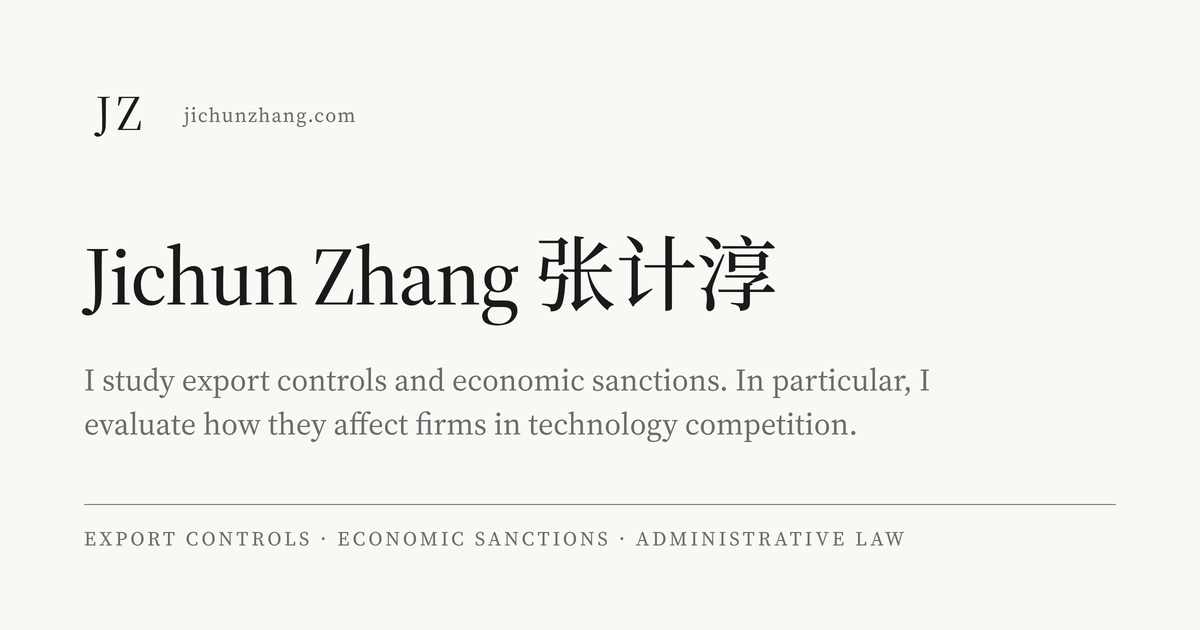
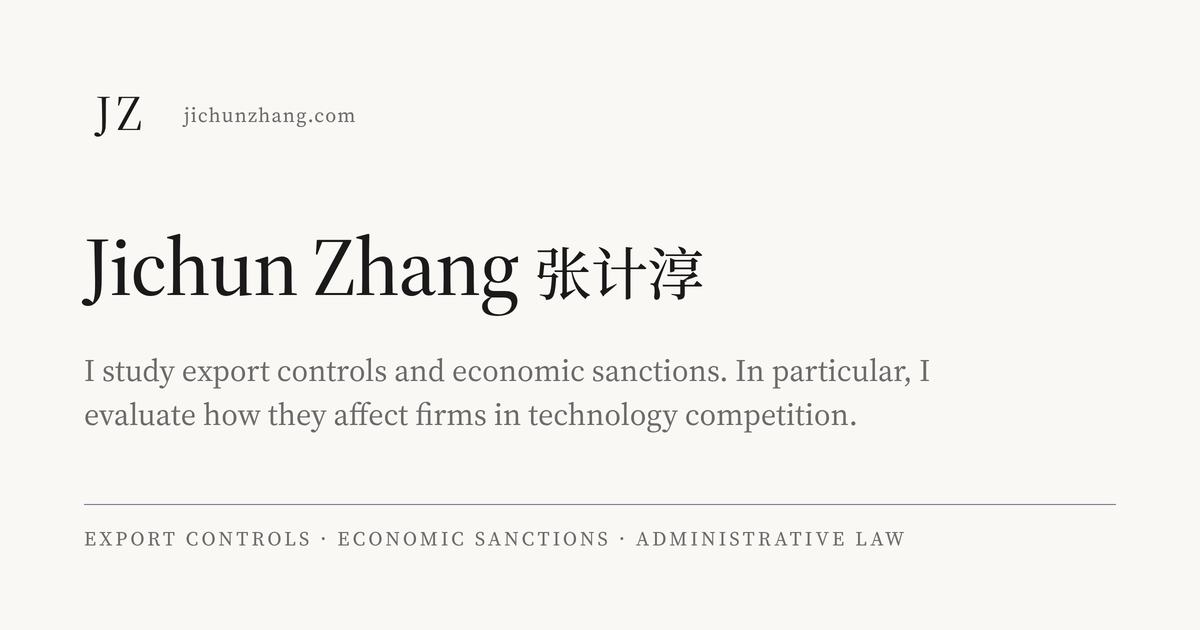
site: content update 2026-09-17 17:51

Changed region(s): [[0.0617, 0.573, 0.7708, 0.6937], [0.0617, 0.3619, 0.6475, 0.5127]]

diff --git a/404.html b/404.html
@@ -38,11 +38,13 @@ header{border-bottom:1px solid var(--rule);padding-bottom:19px;margin-bottom:30p
 .hdrtext{min-width:0}
 h1{font-size:1.6rem;font-weight:500;margin:0 0 4px;letter-spacing:-.01em}
 [lang="zh-Hans"],[lang^="zh"]{font-family:"Noto Serif SC",Georgia,"Songti SC","SimSun",serif}
+h1 [lang^="zh"], h2 [lang^="zh"], .name [lang^="zh"]{font-size:.70em}
 .role{font-family:var(--mono);font-size:.72rem;text-transform:uppercase;letter-spacing:.08em;color:var(--soft)}
 .contact{margin-top:6px;font-family:var(--mono);font-size:.76rem;color:var(--soft);letter-spacing:.02em}
 nav{margin-top:12px;font-family:var(--mono);font-size:.8rem;letter-spacing:.04em;margin-left:-9px;display:flex;gap:4px;flex-wrap:wrap}
 nav a,nav span.here{display:inline-block;padding:7px 9px}
 nav a{color:var(--accent);border-bottom:0}
+nav a:hover{color:var(--text)}
 nav span.here{color:var(--text);position:relative}
 nav span.here::after{content:"";position:absolute;left:9px;right:9px;bottom:6px;border-bottom:1px solid var(--text)}
 .portrait{width:var(--psize,168px);height:var(--psize,168px);object-fit:cover;border-radius:3px;flex:0 0 auto}
@@ -82,9 +84,7 @@ code{font-family:var(--mono);font-size:.9em}
 html{font-size:calc(18.7px + var(--fluid) * 0.0309)}
 section > p, section > ul, section > .tags, .biotext{max-width:calc(604px + var(--fluid))}
 .portrait{width:calc(var(--psize,168px) + var(--fluid) * 0.199);height:calc(var(--psize,168px) + var(--fluid) * 0.199)}
-.wrap{max-width:calc(var(--frame,calc(var(--max) + 320px)) + var(--fluid) * 1.199);min-height:100vh;display:flex;flex-direction:column}
-body{min-height:100vh}
-footer{margin-top:auto}
+.wrap{max-width:calc(var(--frame,calc(var(--max) + 320px)) + var(--fluid) * 1.199)}
 </style>
 </head>
 <body>

diff --git a/cv.html b/cv.html
@@ -38,11 +38,13 @@ header{border-bottom:1px solid var(--rule);padding-bottom:19px;margin-bottom:30p
 .hdrtext{min-width:0}
 h1{font-size:1.6rem;font-weight:500;margin:0 0 4px;letter-spacing:-.01em}
 [lang="zh-Hans"],[lang^="zh"]{font-family:"Noto Serif SC",Georgia,"Songti SC","SimSun",serif}
+h1 [lang^="zh"], h2 [lang^="zh"], .name [lang^="zh"]{font-size:.70em}
 .role{font-family:var(--mono);font-size:.72rem;text-transform:uppercase;letter-spacing:.08em;color:var(--soft)}
 .contact{margin-top:6px;font-family:var(--mono);font-size:.76rem;color:var(--soft);letter-spacing:.02em}
 nav{margin-top:12px;font-family:var(--mono);font-size:.8rem;letter-spacing:.04em;margin-left:-9px;display:flex;gap:4px;flex-wrap:wrap}
 nav a,nav span.here{display:inline-block;padding:7px 9px}
 nav a{color:var(--accent);border-bottom:0}
+nav a:hover{color:var(--text)}
 nav span.here{color:var(--text);position:relative}
 nav span.here::after{content:"";position:absolute;left:9px;right:9px;bottom:6px;border-bottom:1px solid var(--text)}
 .portrait{width:var(--psize,168px);height:var(--psize,168px);object-fit:cover;border-radius:3px;flex:0 0 auto}
@@ -82,9 +84,7 @@ code{font-family:var(--mono);font-size:.9em}
 html{font-size:calc(18.7px + var(--fluid) * 0.0309)}
 section > p, section > ul, section > .tags, .biotext{max-width:calc(604px + var(--fluid))}
 .portrait{width:calc(var(--psize,168px) + var(--fluid) * 0.199);height:calc(var(--psize,168px) + var(--fluid) * 0.199)}
-.wrap{max-width:calc(var(--frame,calc(var(--max) + 320px)) + var(--fluid) * 1.199);min-height:100vh;display:flex;flex-direction:column}
-body{min-height:100vh}
-footer{margin-top:auto}
+.wrap{max-width:calc(var(--frame,calc(var(--max) + 320px)) + var(--fluid) * 1.199)}
 </style>
 </head>
 <body>

diff --git a/index.html b/index.html
@@ -39,11 +39,13 @@ header{border-bottom:1px solid var(--rule);padding-bottom:19px;margin-bottom:30p
 .hdrtext{min-width:0}
 h1{font-size:1.6rem;font-weight:500;margin:0 0 4px;letter-spacing:-.01em}
 [lang="zh-Hans"],[lang^="zh"]{font-family:"Noto Serif SC",Georgia,"Songti SC","SimSun",serif}
+h1 [lang^="zh"], h2 [lang^="zh"], .name [lang^="zh"]{font-size:.70em}
 .role{font-family:var(--mono);font-size:.72rem;text-transform:uppercase;letter-spacing:.08em;color:var(--soft)}
 .contact{margin-top:6px;font-family:var(--mono);font-size:.76rem;color:var(--soft);letter-spacing:.02em}
 nav{margin-top:12px;font-family:var(--mono);font-size:.8rem;letter-spacing:.04em;margin-left:-9px;display:flex;gap:4px;flex-wrap:wrap}
 nav a,nav span.here{display:inline-block;padding:7px 9px}
 nav a{color:var(--accent);border-bottom:0}
+nav a:hover{color:var(--text)}
 nav span.here{color:var(--text);position:relative}
 nav span.here::after{content:"";position:absolute;left:9px;right:9px;bottom:6px;border-bottom:1px solid var(--text)}
 .portrait{width:var(--psize,168px);height:var(--psize,168px);object-fit:cover;border-radius:3px;flex:0 0 auto}
@@ -83,9 +85,7 @@ code{font-family:var(--mono);font-size:.9em}
 html{font-size:calc(18.7px + var(--fluid) * 0.0309)}
 section > p, section > ul, section > .tags, .biotext{max-width:calc(604px + var(--fluid))}
 .portrait{width:calc(var(--psize,168px) + var(--fluid) * 0.199);height:calc(var(--psize,168px) + var(--fluid) * 0.199)}
-.wrap{max-width:calc(var(--frame,calc(var(--max) + 320px)) + var(--fluid) * 1.199);min-height:100vh;display:flex;flex-direction:column}
-body{min-height:100vh}
-footer{margin-top:auto}
+.wrap{max-width:calc(var(--frame,calc(var(--max) + 320px)) + var(--fluid) * 1.199)}
 </style>
 </head>
 <body>

diff --git a/research.html b/research.html
@@ -38,11 +38,13 @@ header{border-bottom:1px solid var(--rule);padding-bottom:19px;margin-bottom:30p
 .hdrtext{min-width:0}
 h1{font-size:1.6rem;font-weight:500;margin:0 0 4px;letter-spacing:-.01em}
 [lang="zh-Hans"],[lang^="zh"]{font-family:"Noto Serif SC",Georgia,"Songti SC","SimSun",serif}
+h1 [lang^="zh"], h2 [lang^="zh"], .name [lang^="zh"]{font-size:.70em}
 .role{font-family:var(--mono);font-size:.72rem;text-transform:uppercase;letter-spacing:.08em;color:var(--soft)}
 .contact{margin-top:6px;font-family:var(--mono);font-size:.76rem;color:var(--soft);letter-spacing:.02em}
 nav{margin-top:12px;font-family:var(--mono);font-size:.8rem;letter-spacing:.04em;margin-left:-9px;display:flex;gap:4px;flex-wrap:wrap}
 nav a,nav span.here{display:inline-block;padding:7px 9px}
 nav a{color:var(--accent);border-bottom:0}
+nav a:hover{color:var(--text)}
 nav span.here{color:var(--text);position:relative}
 nav span.here::after{content:"";position:absolute;left:9px;right:9px;bottom:6px;border-bottom:1px solid var(--text)}
 .portrait{width:var(--psize,168px);height:var(--psize,168px);object-fit:cover;border-radius:3px;flex:0 0 auto}
@@ -82,9 +84,7 @@ code{font-family:var(--mono);font-size:.9em}
 html{font-size:calc(18.7px + var(--fluid) * 0.0309)}
 section > p, section > ul, section > .tags, .biotext{max-width:calc(604px + var(--fluid))}
 .portrait{width:calc(var(--psize,168px) + var(--fluid) * 0.199);height:calc(var(--psize,168px) + var(--fluid) * 0.199)}
-.wrap{max-width:calc(var(--frame,calc(var(--max) + 320px)) + var(--fluid) * 1.199);min-height:100vh;display:flex;flex-direction:column}
-body{min-height:100vh}
-footer{margin-top:auto}
+.wrap{max-width:calc(var(--frame,calc(var(--max) + 320px)) + var(--fluid) * 1.199)}
 </style>
 </head>
 <body>
